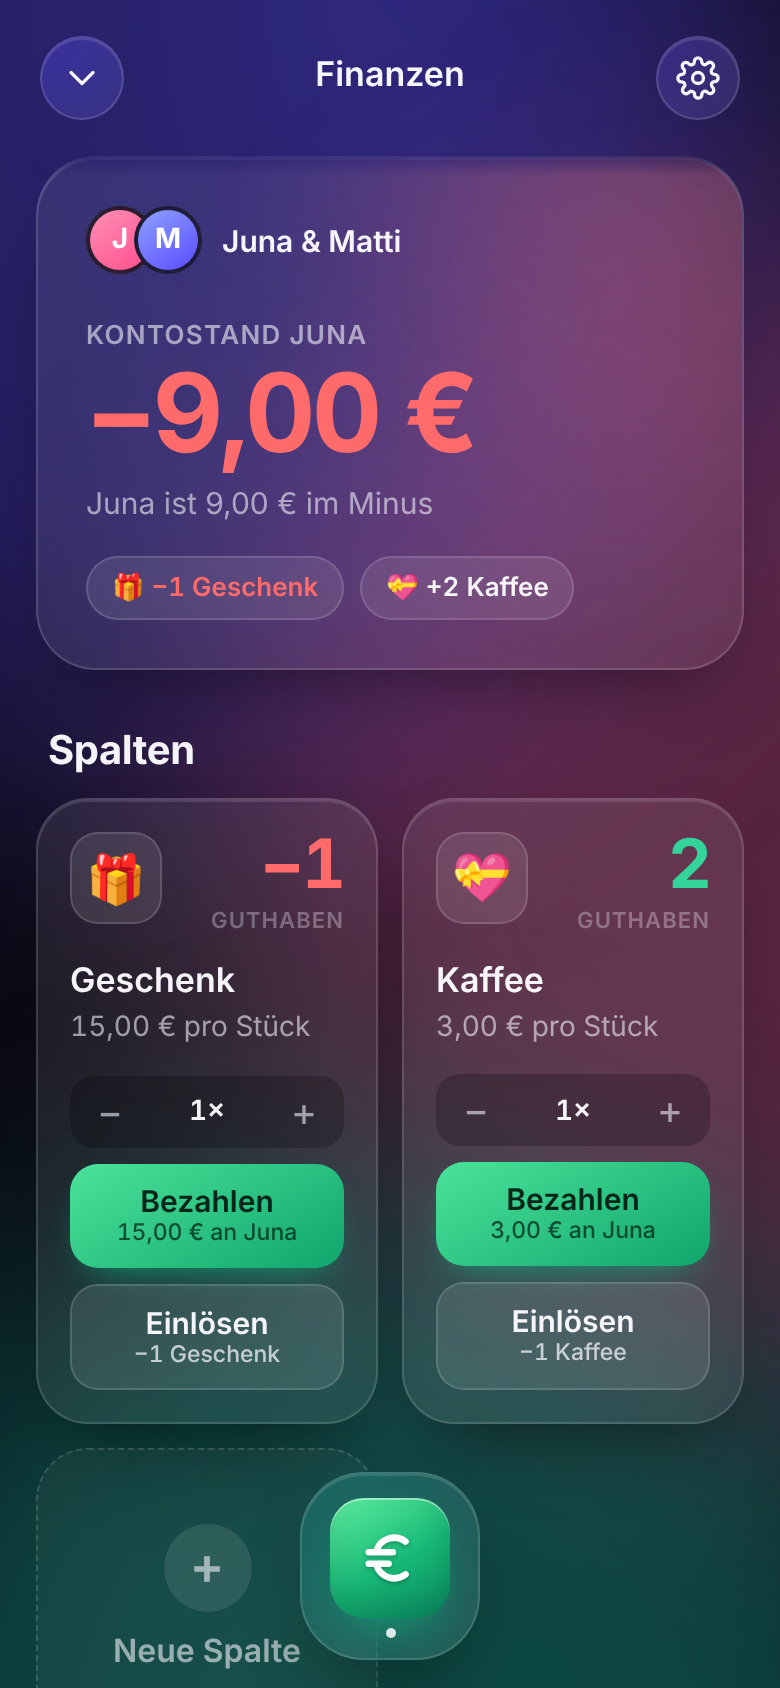
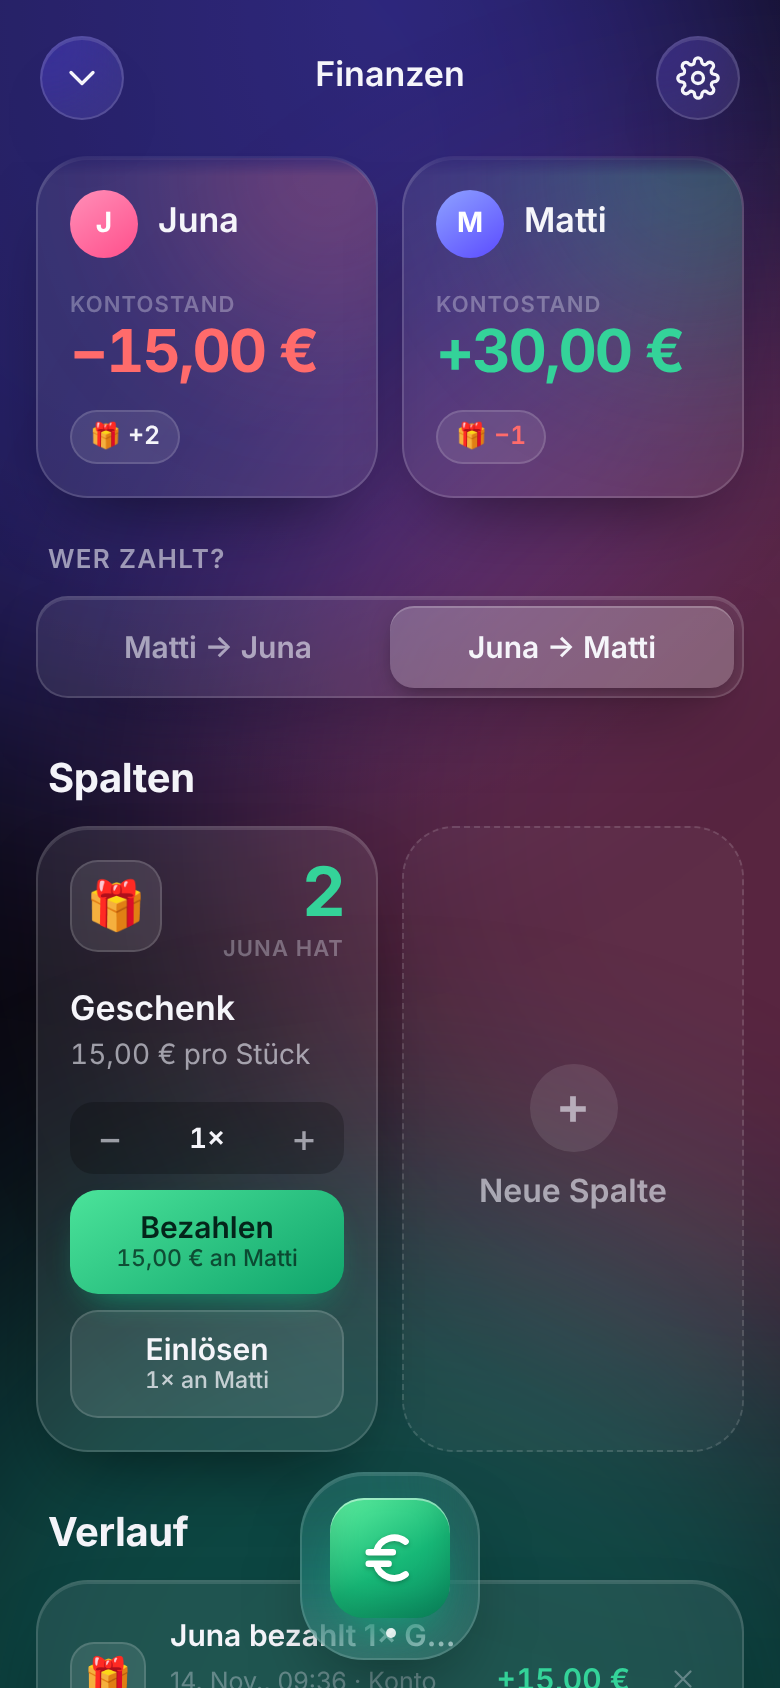
Zwei getrennte Konten: Matti zahlt an Juna oder Juna an Matti
Claude-Session: https://claude.ai/code/session_01HP4ZGYUmZQyzGZFQVh1CYh

diff --git a/app.js b/app.js
@@ -12,7 +12,8 @@
     me: 'Matti',
     partner: 'Juna',
     items: [{ id: uid(), name: 'Geschenk', price: 15, emoji: '🎁' }],
-    tx: [] // { id, itemId, qty (+ bezahlt / − eingelöst), price, ts }
+    payer: 'me', // wer gerade zahlt: 'me' oder 'partner'
+    tx: [] // { id, itemId, from (Zahler), qty (+ bezahlt / − eingelöst), price, ts }
   });
 
   let state;
@@ -33,56 +34,59 @@
   const initial = (s) => (s.trim()[0] || '?').toUpperCase();
   const name = (s, fallback) => s.trim() || fallback;
 
-  const countOf = (itemId) => state.tx.reduce((sum, t) => sum + (t.itemId === itemId ? t.qty : 0), 0);
-  const balance = () => state.items.reduce((sum, it) => sum + countOf(it.id) * it.price, 0);
+  const other = (who) => (who === 'me' ? 'partner' : 'me');
+  const who = (key) => name(state[key], key === 'me' ? 'Matti' : 'Juna');
+  const payer = () => (state.payer === 'partner' ? 'partner' : 'me');
+  // Guthaben (Stückzahl) einer Person in einer Spalte
+  const countOf = (itemId, key) => state.tx.reduce((sum, t) => sum + (t.itemId === itemId && (t.from || 'me') === key ? t.qty : 0), 0);
+  // Kontostand einer Person: was die andere Person bei ihr bezahlt (und noch nicht eingelöst) hat
+  const balance = (key) => Math.round(state.items.reduce((sum, it) => sum + countOf(it.id, other(key)) * it.price, 0) * 100) / 100;
+  const amount = (b) => (b > 0 ? '+' : '') + money(b);
+  const tone = (b) => (b > 0 ? 'pos' : b < 0 ? 'neg' : 'zero');
 
   /* ---------- Rendern ---------- */
-  function summary() {
-    const b = Math.round(balance() * 100) / 100;
-    const partner = name(state.partner, 'Juna');
-    const note = b > 0 ? `${partner} hat ${money(b)} im Plus`
-      : b < 0 ? `${partner} ist ${money(-b)} im Minus`
-      : 'Alles ausgeglichen';
-    return { b, note, text: (b > 0 ? '+' : '') + money(b) };
-  }
-
   function renderHome() {
-    const s = summary();
     $('widget').innerHTML = `
       <div class="w-top"><span class="mini">${EURO_SVG}</span>Finanzen</div>
-      <div class="w-amount" style="color:${s.b > 0 ? 'var(--green)' : s.b < 0 ? 'var(--red)' : 'inherit'}">${s.text}</div>
-      <div class="w-sub">${esc(s.note)}</div>`;
+      <div class="w-rows">${['partner', 'me'].map((k) => `
+        <div class="w-row"><span>${esc(who(k))}</span><b class="${tone(balance(k))}">${amount(balance(k))}</b></div>`).join('')}
+      </div>`;
   }
 
-  function renderHero() {
-    const s = summary();
-    const me = name(state.me, 'Matti'), partner = name(state.partner, 'Juna');
-    const chips = state.items.map((it) => {
-      const c = countOf(it.id);
-      return c ? `<span class="chip ${c < 0 ? 'neg' : ''}">${esc(it.emoji)} ${signed(c)} ${esc(it.name)}</span>` : '';
-    }).join('');
-    const hero = $('hero');
-    hero.className = 'hero glass ' + (s.b > 0 ? 'pos' : s.b < 0 ? 'neg' : 'zero');
-    hero.innerHTML = `
-      <div class="pair">
-        <div class="avatars"><div class="avatar a">${esc(initial(partner))}</div><div class="avatar b">${esc(initial(me))}</div></div>
-        <span>${esc(partner)} &amp; ${esc(me)}</span>
+  function renderAccounts() {
+    const p = payer();
+    $('hero').innerHTML = `
+      <div class="accts">${['partner', 'me'].map((k) => {
+        const b = balance(k);
+        const chips = state.items.map((it) => {
+          const c = countOf(it.id, k);
+          return c ? `<span class="chip ${c < 0 ? 'neg' : ''}">${esc(it.emoji)} ${signed(c)}</span>` : '';
+        }).join('');
+        return `
+        <article class="acct glass ${tone(b)}">
+          <div class="pair"><div class="avatar ${k === 'partner' ? 'a' : 'b'}">${esc(initial(who(k)))}</div><span>${esc(who(k))}</span></div>
+          <div class="label">Kontostand</div>
+          <div class="amount">${amount(b)}</div>
+          <div class="chips">${chips || '<span class="chip none">Kein Guthaben</span>'}</div>
+        </article>`;
+      }).join('')}
       </div>
-      <div class="label">Kontostand ${esc(partner)}</div>
-      <div class="amount">${s.text}</div>
-      <div class="note">${esc(s.note)}</div>
-      ${chips ? `<div class="chips">${chips}</div>` : ''}`;
+      <div class="seg-label">Wer zahlt?</div>
+      <div class="seg glass" data-on="${p}">
+        <button data-action="payer" data-k="me" class="${p === 'me' ? 'on' : ''}">${esc(who('me'))} → ${esc(who('partner'))}</button>
+        <button data-action="payer" data-k="partner" class="${p === 'partner' ? 'on' : ''}">${esc(who('partner'))} → ${esc(who('me'))}</button>
+      </div>`;
   }
 
   function renderItems() {
-    const partner = name(state.partner, 'Juna');
+    const p = payer(), receiver = who(other(p));
     $('items').innerHTML = state.items.map((it) => {
-      const c = countOf(it.id), q = qty[it.id] || 1;
+      const c = countOf(it.id, p), q = qty[it.id] || 1;
       return `
       <article class="card glass" data-id="${it.id}">
         <div class="card-top">
           <div class="emoji">${esc(it.emoji)}</div>
-          <div class="count ${c > 0 ? 'pos' : c < 0 ? 'neg' : ''}"><b>${c < 0 ? '−' + -c : c}</b><small>Guthaben</small></div>
+          <div class="count ${c > 0 ? 'pos' : c < 0 ? 'neg' : ''}"><b>${c < 0 ? '−' + -c : c}</b><small>${esc(who(p))} hat</small></div>
         </div>
         <h3>${esc(it.name || 'Ohne Namen')}</h3>
         <div class="price">${money(it.price)} pro Stück</div>
@@ -91,39 +95,39 @@
           <span>${q}×</span>
           <button data-action="qty" data-d="1" aria-label="Mehr">+</button>
         </div>
-        <button class="btn pay" data-action="pay">Bezahlen<small>${money(it.price * q)} an ${esc(partner)}</small></button>
-        <button class="btn use" data-action="use">Einlösen<small>−${q} ${esc(it.name)}</small></button>
+        <button class="btn pay" data-action="pay">Bezahlen<small>${money(it.price * q)} an ${esc(receiver)}</small></button>
+        <button class="btn use" data-action="use">Einlösen<small>${q}× an ${esc(receiver)}</small></button>
       </article>`;
     }).join('') + `
       <button class="card glass add" data-action="add-item"><span class="plus">+</span>Neue Spalte</button>`;
   }
 
   function renderHistory() {
-    const me = name(state.me, 'Matti'), partner = name(state.partner, 'Juna');
     const byId = Object.fromEntries(state.items.map((it) => [it.id, it]));
     const fmt = new Intl.DateTimeFormat('de-DE', { day: '2-digit', month: 'short', hour: '2-digit', minute: '2-digit' });
     const rows = state.tx.slice().reverse().filter((t) => byId[t.itemId]).slice(0, 60).map((t) => {
       const it = byId[t.itemId], n = Math.abs(t.qty), paid = t.qty > 0;
+      const from = t.from || 'me', P = esc(who(from)), R = esc(who(other(from)));
       return `
       <div class="row" data-tx="${t.id}">
         <div class="emoji">${esc(it.emoji)}</div>
         <div class="txt">
-          <b>${paid ? `${esc(me)} bezahlt ${n}× ${esc(it.name)}` : `${esc(me)} löst ${n}× ${esc(it.name)} ein`}</b>
-          <small>${fmt.format(new Date(t.ts))}</small>
+          <b>${paid ? `${P} bezahlt ${n}× ${esc(it.name)}` : `${P} löst ${n}× ${esc(it.name)} ein`}</b>
+          <small>${fmt.format(new Date(t.ts))} · Konto ${R}</small>
         </div>
         <div class="val ${paid ? 'pos' : 'neg'}">${paid ? '+' : '−'}${money(n * t.price)}</div>
         <button class="x" data-action="undo" aria-label="Eintrag löschen">${X_SVG}</button>
       </div>`;
     }).join('');
-    $('history').innerHTML = rows || `<div class="empty">Noch keine Einträge.<br>Tippe auf „Bezahlen“, wenn du ${esc(partner)} Geld gibst.</div>`;
+    $('history').innerHTML = rows || `<div class="empty">Noch keine Einträge.<br>Wähle oben, wer zahlt, und tippe auf „Bezahlen“.</div>`;
   }
 
   function renderSettings() {
     $('settings').innerHTML = `
       <div class="group-title">Personen</div>
       <div class="group">
-        <div class="field"><label>Ich</label><input data-person="me" value="${esc(state.me)}" placeholder="Matti" maxlength="20"></div>
-        <div class="field"><label>Partnerin</label><input data-person="partner" value="${esc(state.partner)}" placeholder="Juna" maxlength="20"></div>
+        <div class="field"><label>Person 1</label><input data-person="me" value="${esc(state.me)}" placeholder="Matti" maxlength="20"></div>
+        <div class="field"><label>Person 2</label><input data-person="partner" value="${esc(state.partner)}" placeholder="Juna" maxlength="20"></div>
       </div>
       <div class="group-title">Spalten</div>
       ${state.items.map((it) => `
@@ -142,7 +146,7 @@
       <div class="group"><button class="linkbtn danger" data-action="reset">${confirmReset ? 'Wirklich alles löschen? Nochmal tippen' : 'Alles zurücksetzen'}</button></div>`;
   }
 
-  function renderMain() { renderHome(); renderHero(); renderItems(); renderHistory(); }
+  function renderMain() { renderHome(); renderAccounts(); renderItems(); renderHistory(); }
   function commit() { save(); renderMain(); }
 
   /* ---------- Aktionen ---------- */
@@ -158,7 +162,7 @@
   function book(itemId, sign) {
     const it = state.items.find((i) => i.id === itemId);
     if (!it) return;
-    state.tx.push({ id: uid(), itemId, qty: sign * (qty[itemId] || 1), price: it.price, ts: Date.now() });
+    state.tx.push({ id: uid(), itemId, from: payer(), qty: sign * (qty[itemId] || 1), price: it.price, ts: Date.now() });
     qty[itemId] = 1;
     commit();
     const card = document.querySelector(`.card[data-id="${itemId}"]`);
@@ -170,6 +174,7 @@
     open: () => setView('manager'),
     close: () => setView('home'),
     toggle: () => setView(document.body.dataset.view === 'manager' ? 'home' : 'manager'),
+    payer: (el) => { state.payer = el.dataset.k; commit(); },
     settings: openSheet,
     'settings-close': closeSheet,
     qty: (el, id) => { qty[id] = Math.min(99, Math.max(1, (qty[id] || 1) + Number(el.dataset.d))); renderItems(); },

diff --git a/styles.css b/styles.css
@@ -200,3 +200,30 @@ body.sheet-open .sheet { transform: none; }
 
 @media (max-width: 340px) { .items { grid-template-columns: 1fr; } }
 @media (prefers-reduced-motion: reduce) { *, *::before { animation: none !important; transition-duration: .01s !important; } }
+
+/* ---------- Zwei Konten ---------- */
+.accts { display: grid; grid-template-columns: repeat(2, minmax(0, 1fr)); gap: 12px; }
+.acct { border-radius: var(--radius); padding: 16px; position: relative; overflow: hidden; --tone: var(--green); }
+.acct.neg { --tone: var(--red); }
+.acct.zero { --tone: var(--accent); }
+.acct::before { content: ""; position: absolute; right: -30%; top: -40%; width: 90%; aspect-ratio: 1; border-radius: 50%; background: var(--tone); filter: blur(46px); opacity: .26; transition: background .5s; }
+.acct > * { position: relative; }
+.acct .avatar { margin: 0; border: 0; }
+.acct .pair span { font-size: 17px; white-space: nowrap; overflow: hidden; text-overflow: ellipsis; }
+.acct .label { margin-top: 16px; font-size: 11px; font-weight: 600; letter-spacing: .05em; text-transform: uppercase; color: var(--faint); }
+.acct .amount { font-size: clamp(24px, 7.6vw, 32px); white-space: nowrap; }
+.acct.zero .amount { color: var(--text); }
+.acct .chips { margin-top: 12px; gap: 6px; }
+.acct .chip { padding: 4px 9px; font-size: 12.5px; }
+.chip.none { color: var(--faint); font-weight: 500; background: none; border-color: rgba(255, 255, 255, .08); }
+.seg-label { margin: 22px 6px 8px; font-size: 13px; font-weight: 600; letter-spacing: .05em; text-transform: uppercase; color: var(--muted); }
+.seg { position: relative; display: grid; grid-template-columns: 1fr 1fr; padding: 4px; border-radius: 16px; }
+.seg::before { content: ""; position: absolute; top: 4px; bottom: 4px; left: 4px; width: calc(50% - 4px); border-radius: 12px; background: rgba(255, 255, 255, .2); box-shadow: 0 1px 0 rgba(255, 255, 255, .2) inset, 0 4px 12px -4px rgba(0, 0, 0, .5); transition: transform .4s var(--ease); }
+.seg[data-on="partner"]::before { transform: translateX(100%); }
+.seg button { position: relative; padding: 10px 6px; font-weight: 600; font-size: 15px; color: var(--muted); white-space: nowrap; overflow: hidden; text-overflow: ellipsis; transition: color .3s; }
+.seg button.on { color: var(--text); }
+.widget .w-rows { margin-top: 12px; display: grid; gap: 6px; }
+.widget .w-row { display: flex; justify-content: space-between; align-items: baseline; font-size: 17px; color: var(--muted); }
+.widget .w-row b { font-size: 26px; font-weight: 700; letter-spacing: -.02em; font-variant-numeric: tabular-nums; color: var(--text); }
+.widget .w-row b.pos { color: var(--green); }
+.widget .w-row b.neg { color: var(--red); }

diff --git a/index.html b/index.html
@@ -38,7 +38,7 @@
       </button>
     </header>
     <div class="scroll">
-      <section id="hero" class="hero glass"></section>
+      <section id="hero"></section>
       <div class="section-title"><span>Spalten</span></div>
       <section id="items" class="items"></section>
       <div class="section-title"><span>Verlauf</span></div>
